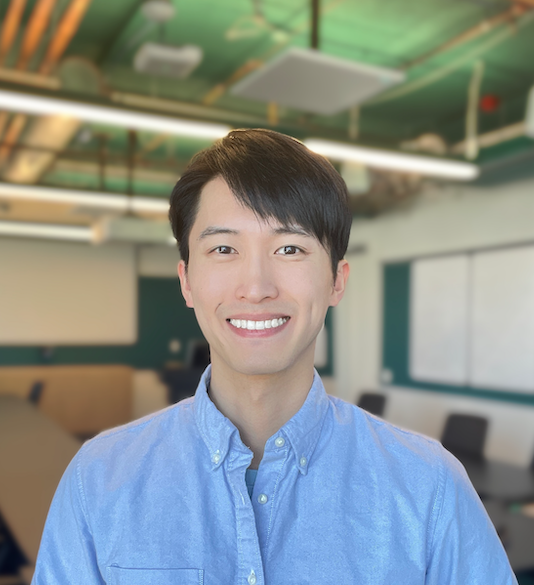
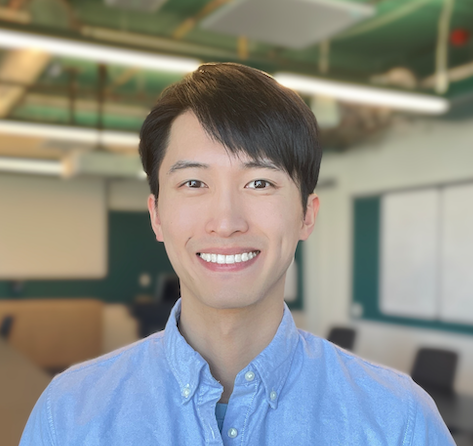
e

diff --git a/index.html b/index.html
@@ -35,7 +35,7 @@ title: "Yang Chen"
     <!-- <img src="static/yang.jpeg" class="img-thumbnail"
     style="margin-top: 35px; margin-bottom: 15px"> -->
     <img src="static/yang.png"  width="200"
-         height="220" style="margin-top: 35px; margin-bottom: 15px" >  
+         height="190" style="margin-top: 35px; margin-bottom: 15px" >  
   </div>
   <div class="col-sm-9 col-md-10">
     <h1>Yang Chen</h1>
